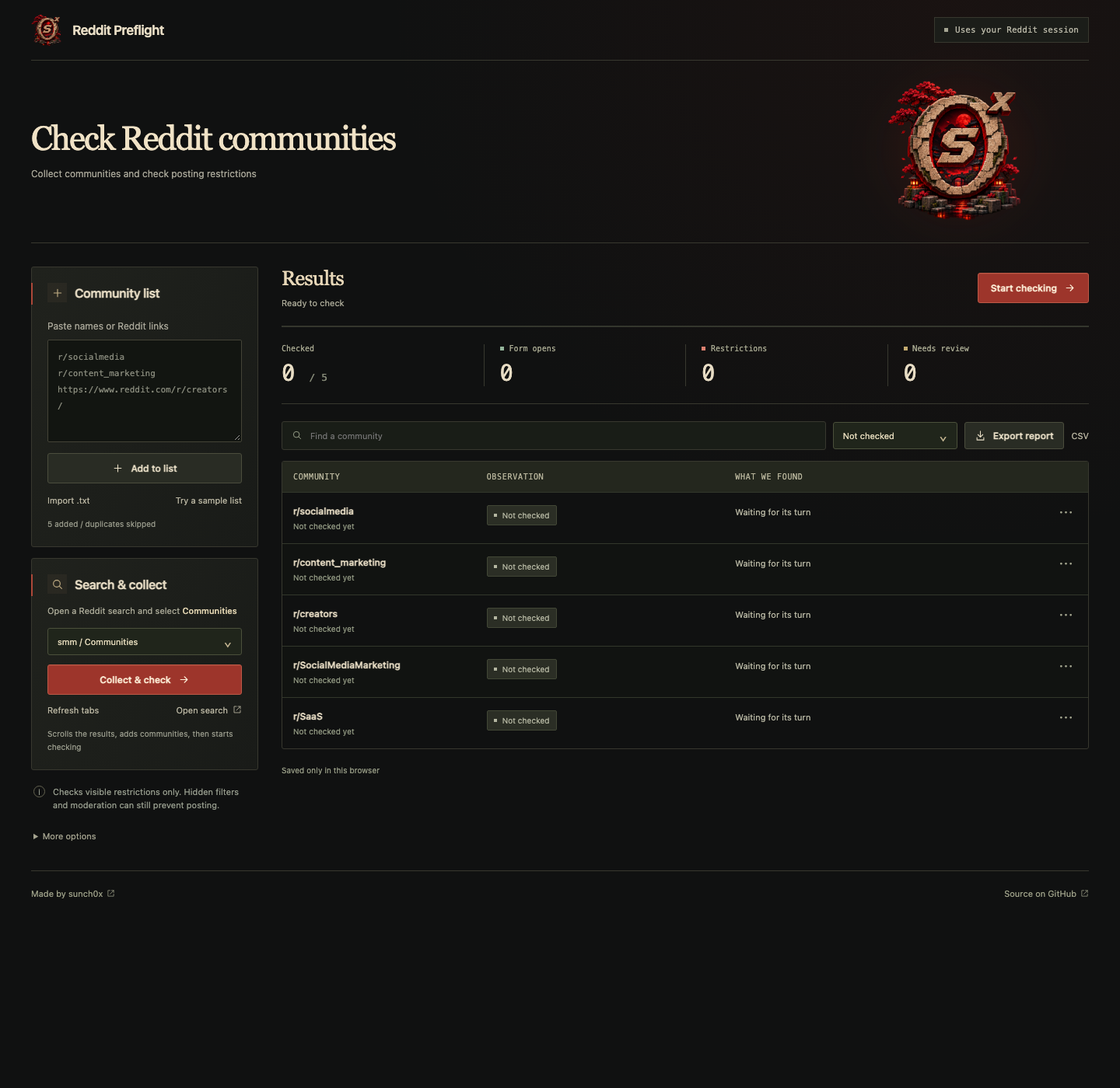
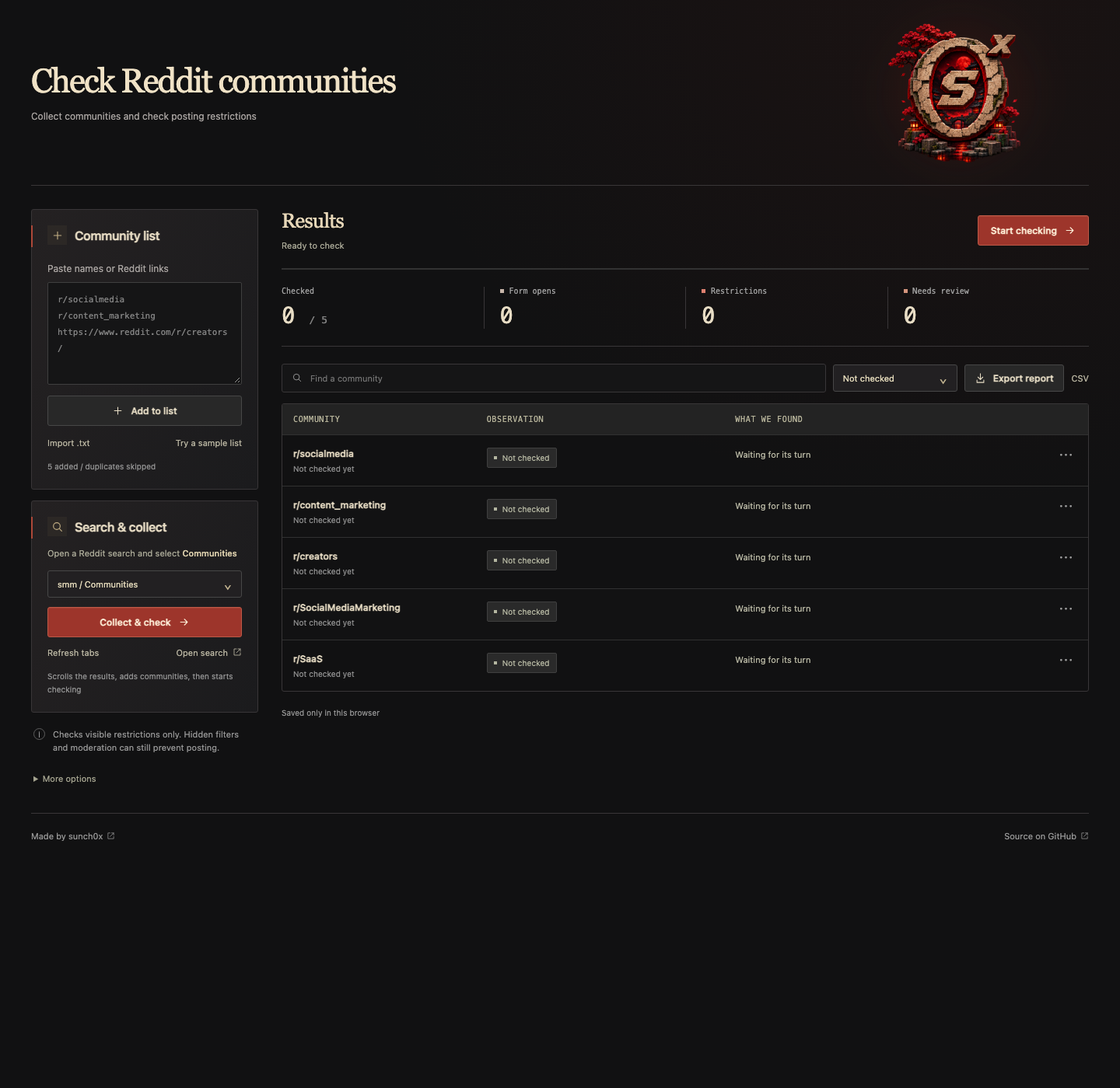
Remove topbar and replace olive accents with charcoal and crimson

diff --git a/extension/style.css b/extension/style.css
@@ -1,13 +1,15 @@
-:root{font-family:-apple-system,BlinkMacSystemFont,"Segoe UI",sans-serif;color:#e7dcc4;background:#101111;color-scheme:dark;--surface:#1a1b19;--muted:#a7a597;--line:#38382f;--accent:#d6c096;--red:#b34337;--ease:cubic-bezier(.16,1,.3,1)}
+:root{font-family:-apple-system,BlinkMacSystemFont,"Segoe UI",sans-serif;color:#e7dcc4;background:#101111;color-scheme:dark;--surface:#1a1a1a;--muted:#a7a597;--line:#353535;--accent:#d6c096;--red:#b34337;--ease:cubic-bezier(.16,1,.3,1)}
 *{box-sizing:border-box}body{margin:0;background:radial-gradient(ellipse at 85% 0,#6c20151b,transparent 42%)}button,input,select,textarea{font:inherit}button,a,input,select,summary{touch-action:manipulation}button{cursor:pointer}button:disabled{opacity:.4;cursor:default}[hidden]{display:none!important}a{color:inherit;text-decoration:none}a:hover{color:#f5d2a3}button:focus-visible,a:focus-visible,summary:focus-visible,input:focus-visible,textarea:focus-visible,select:focus-visible{outline:2px solid #d6c096;outline-offset:4px}.app{max-width:1500px;margin:auto;padding:0 40px}svg{width:18px;height:18px;fill:none;stroke:currentColor;stroke-width:1.7;stroke-linecap:round;stroke-linejoin:round;flex-shrink:0}.svg-defs{position:absolute;width:0;height:0;overflow:hidden}
-.topbar{height:78px;display:flex;align-items:center;justify-content:space-between;gap:20px;border-bottom:1px solid var(--line)}.wordmark{display:flex;align-items:center;gap:11px;font-size:17px;font-weight:600;letter-spacing:-.025em}.brand-mark{width:42px;height:50px}.brand-mark img{width:100%;height:100%;object-fit:contain}.account-pill{display:flex;align-items:center;gap:9px;padding:9px 12px;border:1px solid var(--line);background:#1b1d19;color:#b8b6a6;font:11px ui-monospace,SFMono-Regular,monospace;max-width:350px;overflow:hidden}.dot{display:inline-block;width:5px;height:5px;background:#a5a593;flex-shrink:0}.good{background:#94b59b}.bad{background:#dd8070}.neutral{background:#c4ab70}
+.topbar{height:78px;display:flex;align-items:center;justify-content:space-between;gap:20px;border-bottom:1px solid var(--line)}.wordmark{display:flex;align-items:center;gap:11px;font-size:17px;font-weight:600;letter-spacing:-.025em}.brand-mark{width:42px;height:50px}.brand-mark img{width:100%;height:100%;object-fit:contain}.account-pill{display:flex;align-items:center;gap:9px;padding:9px 12px;border:1px solid var(--line);background:#1b1b1b;color:#b8b6a6;font:11px ui-monospace,SFMono-Regular,monospace;max-width:350px;overflow:hidden}.dot{display:inline-block;width:5px;height:5px;background:#9f9f9f;flex-shrink:0}.good{background:#a1a1a1}.bad{background:#dd8070}.neutral{background:#c4ab70}
 .intro{display:grid;grid-template-columns:minmax(0,1fr) 290px;align-items:center;gap:30px;padding:22px 22px 22px 0;min-height:210px;border-bottom:1px solid var(--line);margin-bottom:30px}.intro-copy{animation:arrive .5s var(--ease) both}.intro h1{font:500 clamp(36px,3.5vw,54px)/1.04 Georgia,"Times New Roman",serif;letter-spacing:-.045em;margin:0;color:#f0e2c6}.intro h1 span{color:#c8b58c}.intro p{font-size:12px;line-height:1.8;color:var(--muted);margin:17px 0 0}.intro-art{position:relative;display:flex;flex-direction:column;align-items:center;justify-content:center;height:190px}.intro-art:before{content:"";position:absolute;width:180px;height:180px;border-radius:50%;background:#b22f1718;filter:blur(28px);pointer-events:none}.intro-art img{position:relative;width:190px;height:190px;object-fit:contain;animation:emblem-in .65s var(--ease) both}
-h2{font-size:16px;font-weight:550;letter-spacing:-.015em;margin:0}h3{font-size:16px;font-weight:500}.workspace{display:grid;grid-template-columns:292px minmax(0,1fr);gap:30px;align-items:start;padding-bottom:26px}.panel{border:1px solid var(--line);background:linear-gradient(115deg,#20221d,#191b18);padding:20px;border-radius:3px;position:relative}.panel:before{content:"";position:absolute;left:-1px;top:20px;height:28px;width:2px;background:#ad4839}.panel-heading{display:flex;align-items:center;gap:10px;margin-bottom:20px}.icon-tile{width:25px;height:25px;display:grid;place-items:center;color:#c3af85;background:#b8a17710}.icon-tile svg{width:16px;height:16px}label{color:var(--muted);font-size:12px}textarea{display:block;width:100%;resize:vertical;min-height:132px;max-height:350px;margin:10px 0 14px;padding:12px;border:1px solid #444337;border-radius:2px;background:#121511;font:11px/1.9 ui-monospace,SFMono-Regular,monospace;color:#e7dcc4}textarea::placeholder{color:#858779}.button{display:inline-flex;justify-content:center;align-items:center;gap:9px;white-space:nowrap;background:#292c24;border:1px solid #4b4d3d;border-radius:3px;padding:11px 16px;color:#e8dec6;font-size:12px;font-weight:550;transition:background .18s,transform .2s var(--ease),border-color .18s;position:relative}.button:not(:disabled):hover{background:#36392e;border-color:#9b8c65;transform:translateY(-1px)}.button:not(:disabled):active{transform:scale(.985)}.button.primary{background:#9d352b;border-color:#bd5947;color:#fff0d9;box-shadow:inset 0 1px #eea07a20}.button.primary:not(:disabled):hover{background:#b14335;border-color:#d07759}.button svg{width:15px;height:15px;transition:transform .2s var(--ease)}.button.primary:hover:not(:disabled) svg{transform:translateX(2px)}.full{width:100%}.compact{padding:9px 12px}.text-button{font-size:11px;color:#bab6a2;border:0;background:transparent;padding:7px 0;display:inline-flex;align-items:center;gap:6px;transition:color .18s,transform .18s;cursor:pointer;text-align:left}.text-button:hover{color:#f1d6a5}.text-button:active{transform:scale(.985)}.text-button svg{width:12px;height:12px}.file-button input{display:none}.import-row{display:flex;justify-content:space-between;gap:8px;margin-top:8px}.micro{font-size:10px;color:#969889;line-height:1.7;margin:9px 0 0;min-height:17px;overflow-wrap:anywhere}.collect-panel{margin-top:14px}.collect-panel .panel-heading{margin-bottom:13px}.collect-panel>p:not(.micro){color:#aaa997;font-size:11px;line-height:1.7;margin:0 0 12px}.collect-panel strong{color:#ded1ae;font-weight:500}.collect-panel .import-row{margin-top:6px}.quiet-note{display:flex;gap:10px;padding:19px 3px 12px;color:#959b8c;font-size:11px;line-height:1.6}.quiet-note strong{color:#bcb79d;font-size:11px;font-weight:500}.quiet-note p{margin:6px 0 0}.note-icon{width:15px;height:15px;flex-shrink:0;text-align:center;line-height:14px;border:1px solid #656451;border-radius:50%;font-size:10px;margin-top:1px}.list-settings{padding:4px 3px;font-size:11px;color:#a4a38f}.list-settings summary{cursor:pointer;padding:8px 0}.list-settings .text-button,.list-settings .toggle{display:flex;width:100%;margin-top:6px}.toggle{align-items:center;gap:8px;padding:8px 0}.toggle input{accent-color:#b34337}.danger{color:#e48f7c}
-.results{min-width:0}.scan-bar{display:flex;justify-content:space-between;gap:20px;align-items:center;min-height:53px}.scan-bar h2{font:26px Georgia,"Times New Roman",serif;letter-spacing:-.025em;color:#e7d7b8}.scan-bar p{font-size:11px;color:#aaa997;margin:8px 0 0;line-height:1.6;max-width:520px}.run-actions{display:flex;gap:8px;flex-shrink:0}.progress-track{height:2px;background:#34362d;margin:20px 0 0;overflow:hidden}.progress-track>div{height:100%;width:0;background:#bd5947;transition:width .4s var(--ease)}.summary{display:grid;grid-template-columns:repeat(4,1fr);gap:0;margin:0 0 22px;border-bottom:1px solid var(--line);padding:22px 0}.metric{padding-left:20px;border-left:1px solid var(--line)}.metric:first-child{padding-left:0;border-left:0}.metric span{display:flex;gap:7px;align-items:center;font:10px ui-monospace,SFMono-Regular,monospace;color:#a8a991}.metric strong{font:29px ui-monospace,SFMono-Regular,monospace;display:block;margin-top:9px;font-variant-numeric:tabular-nums;letter-spacing:-.04em}.metric small{font-size:13px;color:#868a78;font-weight:400;letter-spacing:0;margin-left:3px}.table-tools{display:flex;align-items:center;gap:9px;margin-bottom:14px}.search{display:flex;align-items:center;gap:8px;flex:1;min-width:120px;background:#191d17;border:1px solid var(--line);border-radius:3px;padding:10px 12px}.search svg{width:14px;height:14px;color:#969d87}.search input{min-width:0;width:100%;border:0;background:transparent;outline:none;font-size:11px;color:#e7dcc4}.search:focus-within{border-color:#b6a06d}.export-actions{display:flex;gap:10px;align-items:center}.empty{min-height:290px;display:flex;flex-direction:column;align-items:center;justify-content:center;text-align:center;border:1px dashed #444739;padding:30px}.empty-mark{display:grid;place-items:center;width:44px;height:44px;background:#24291e;color:#c4ae7e;border:1px solid #4b523c}.empty-mark svg{width:25px;height:25px}.empty h3{margin:18px 0 8px;color:#dfd1ae}.empty p{font-size:12px;line-height:1.8;color:#a4a591;margin:0}.table-wrap{border:1px solid var(--line);border-radius:3px;overflow:auto;max-height:540px}table{width:100%;border-collapse:collapse;font-size:12px}th{text-align:left;font:10px ui-monospace,SFMono-Regular,monospace;text-transform:uppercase;letter-spacing:.07em;color:#b6b39a;background:#24271e;padding:14px;position:sticky;top:0;z-index:2}td{border-top:1px solid #32372b;padding:16px 14px;vertical-align:top}td:first-child{width:24%;min-width:150px}td:nth-child(2){min-width:140px}td:nth-child(3){max-width:330px;min-width:180px;color:#b9b8a4;font-size:11px;line-height:1.7}td:last-child{width:40px}td small{display:block;color:#909781;margin-top:6px;font-size:10px}td a{font-weight:550}tr{transition:background .18s}tbody tr:nth-child(even){background:#1d211824}tbody tr:hover{background:#252b1d}.badge{display:inline-flex;align-items:center;gap:7px;border-radius:2px;background:#2b2e25;color:#b4b6a1;padding:6px 8px;font-size:10px;white-space:nowrap;border:1px solid #424736}.badge:before{content:"";width:4px;height:4px;background:currentColor}.form_open{background:#25392b;color:#b6d5af;border-color:#445e41}.blocked,.restricted,.unavailable,.manual_bad{background:#482922;color:#edb09a;border-color:#774438}.unknown,.login,.challenge,.rate_limit,.session_changed{background:#3c3522;color:#dbc28b;border-color:#635538}.user_confirmed{background:#293d31;color:#b1d4b8;border-color:#465e49}.checking{background:#423924;color:#e6c693;border-color:#746040}.checking:before{animation:breathe 1.3s ease-in-out infinite}.row-action{position:relative}.row-action>button{background:none;border:0;color:#a2a48e;font-size:19px;line-height:1;padding:0 5px}.row-action>button:hover{color:#e7dcc4}.row-menu{position:absolute;right:0;top:25px;width:165px;border:1px solid #585b43;border-radius:3px;background:#252b1f;padding:5px;box-shadow:0 15px 35px #0008;z-index:3}.row-menu button{display:block;background:transparent;border:0;text-align:left;color:#ddd8be;font:inherit;padding:10px;border-radius:2px;width:100%}.row-menu button:hover{background:#3c4430;color:#fff1cd}.scan-details{display:flex;align-items:center;justify-content:space-between;gap:10px;min-height:38px;margin-top:8px;color:#969b85;font-size:10px}.scan-details>div{display:flex;gap:14px}.no-matches{text-align:center;padding:20px;color:#a9aa94;font-size:12px}
-.select-trigger{display:flex;align-items:center;justify-content:space-between;gap:16px;min-width:160px;max-width:240px;padding:10px 12px;border:1px solid #4b503b;border-radius:3px;background:#20251b;color:#e2d8b9;font-size:11px;text-align:left;transition:background .18s,border-color .18s,transform .18s var(--ease)}.select-trigger>span:first-child{overflow:hidden;text-overflow:ellipsis;white-space:nowrap}.select-trigger:hover:not(:disabled){background:#2d3523;border-color:#9d946b}.select-trigger:active:not(:disabled){transform:scale(.99)}.select-trigger[aria-expanded="true"]{border-color:#c3ad7a}.select-chevron{color:#bfb18e;font-size:17px;line-height:12px}.collect-panel .select-trigger{width:100%;max-width:none;min-width:0;margin-bottom:12px}.select-options{position:fixed;z-index:1000;max-height:300px;overflow-y:auto;overscroll-behavior:contain;padding:5px;border:1px solid #686748;border-radius:3px;background:#22291c;box-shadow:0 12px 32px #0008;animation:arrive .14s var(--ease)}.select-options button{display:flex;align-items:center;justify-content:space-between;gap:18px;width:100%;border:0;border-radius:2px;padding:10px 11px;text-align:left;background:transparent;color:#dddcc4;font-size:12px;line-height:1.35;transition:background .12s,color .12s}.select-options button:hover,.select-options button:focus-visible{background:#38432b;color:#f3e0b6;outline:none}.select-options button[aria-selected="true"]{background:#4a3826;color:#f4d4a0;box-shadow:inset 2px 0 #bc6750}.select-check{color:#d6bb84}.table-tools .select-trigger{flex-shrink:0}
-footer{border-top:1px solid var(--line);padding:22px 0 26px;display:flex;justify-content:space-between;gap:20px;color:#9c9f87;font-size:11px;align-items:center}footer a{display:inline-flex;align-items:center;gap:5px}footer svg{width:11px;height:11px}dialog{background:#20241a;color:#e7dcc4;border:1px solid #626044;border-radius:4px;padding:25px;max-width:440px;width:90%;box-shadow:0 25px 90px #0008}dialog::backdrop{background:#000a;backdrop-filter:blur(4px)}dialog[open]{animation:arrive .2s var(--ease)}dialog p{font-size:13px;color:#bbb69d;line-height:1.7}.dialog-actions{display:flex;justify-content:flex-end;gap:9px;margin-top:24px}.sr-only{position:absolute;width:1px;height:1px;overflow:hidden;clip:rect(0,0,0,0)}::-webkit-scrollbar{width:5px;height:5px}::-webkit-scrollbar-thumb{background:#5a6047}::-webkit-scrollbar-track{background:transparent}@keyframes arrive{from{opacity:0;transform:translateY(5px)}to{opacity:1;transform:translateY(0)}}@keyframes emblem-in{from{opacity:0;transform:scale(.98)}to{opacity:1;transform:scale(1)}}@keyframes breathe{50%{opacity:.3}}
+h2{font-size:16px;font-weight:550;letter-spacing:-.015em;margin:0}h3{font-size:16px;font-weight:500}.workspace{display:grid;grid-template-columns:292px minmax(0,1fr);gap:30px;align-items:start;padding-bottom:26px}.panel{border:1px solid var(--line);background:linear-gradient(115deg,#202020,#191919);padding:20px;border-radius:3px;position:relative}.panel:before{content:"";position:absolute;left:-1px;top:20px;height:28px;width:2px;background:#ad4839}.panel-heading{display:flex;align-items:center;gap:10px;margin-bottom:20px}.icon-tile{width:25px;height:25px;display:grid;place-items:center;color:#c3af85;background:#b8a17710}.icon-tile svg{width:16px;height:16px}label{color:var(--muted);font-size:12px}textarea{display:block;width:100%;resize:vertical;min-height:132px;max-height:350px;margin:10px 0 14px;padding:12px;border:1px solid #3f3f3f;border-radius:2px;background:#131313;font:11px/1.9 ui-monospace,SFMono-Regular,monospace;color:#e7dcc4}textarea::placeholder{color:#828282}.button{display:inline-flex;justify-content:center;align-items:center;gap:9px;white-space:nowrap;background:#282828;border:1px solid #474747;border-radius:3px;padding:11px 16px;color:#e8dec6;font-size:12px;font-weight:550;transition:background .18s,transform .2s var(--ease),border-color .18s;position:relative}.button:not(:disabled):hover{background:#343434;border-color:#9b8c65;transform:translateY(-1px)}.button:not(:disabled):active{transform:scale(.985)}.button.primary{background:#9d352b;border-color:#bd5947;color:#fff0d9;box-shadow:inset 0 1px #eea07a20}.button.primary:not(:disabled):hover{background:#b14335;border-color:#d07759}.button svg{width:15px;height:15px;transition:transform .2s var(--ease)}.button.primary:hover:not(:disabled) svg{transform:translateX(2px)}.full{width:100%}.compact{padding:9px 12px}.text-button{font-size:11px;color:#bab6a2;border:0;background:transparent;padding:7px 0;display:inline-flex;align-items:center;gap:6px;transition:color .18s,transform .18s;cursor:pointer;text-align:left}.text-button:hover{color:#f1d6a5}.text-button:active{transform:scale(.985)}.text-button svg{width:12px;height:12px}.file-button input{display:none}.import-row{display:flex;justify-content:space-between;gap:8px;margin-top:8px}.micro{font-size:10px;color:#929292;line-height:1.7;margin:9px 0 0;min-height:17px;overflow-wrap:anywhere}.collect-panel{margin-top:14px}.collect-panel .panel-heading{margin-bottom:13px}.collect-panel>p:not(.micro){color:#aaa997;font-size:11px;line-height:1.7;margin:0 0 12px}.collect-panel strong{color:#ded1ae;font-weight:500}.collect-panel .import-row{margin-top:6px}.quiet-note{display:flex;gap:10px;padding:19px 3px 12px;color:#949494;font-size:11px;line-height:1.6}.quiet-note strong{color:#bcb79d;font-size:11px;font-weight:500}.quiet-note p{margin:6px 0 0}.note-icon{width:15px;height:15px;flex-shrink:0;text-align:center;line-height:14px;border:1px solid #5e5e5e;border-radius:50%;font-size:10px;margin-top:1px}.list-settings{padding:4px 3px;font-size:11px;color:#a4a38f}.list-settings summary{cursor:pointer;padding:8px 0}.list-settings .text-button,.list-settings .toggle{display:flex;width:100%;margin-top:6px}.toggle{align-items:center;gap:8px;padding:8px 0}.toggle input{accent-color:#b34337}.danger{color:#e48f7c}
+.results{min-width:0}.scan-bar{display:flex;justify-content:space-between;gap:20px;align-items:center;min-height:53px}.scan-bar h2{font:26px Georgia,"Times New Roman",serif;letter-spacing:-.025em;color:#e7d7b8}.scan-bar p{font-size:11px;color:#aaa997;margin:8px 0 0;line-height:1.6;max-width:520px}.run-actions{display:flex;gap:8px;flex-shrink:0}.progress-track{height:2px;background:#323232;margin:20px 0 0;overflow:hidden}.progress-track>div{height:100%;width:0;background:#bd5947;transition:width .4s var(--ease)}.summary{display:grid;grid-template-columns:repeat(4,1fr);gap:0;margin:0 0 22px;border-bottom:1px solid var(--line);padding:22px 0}.metric{padding-left:20px;border-left:1px solid var(--line)}.metric:first-child{padding-left:0;border-left:0}.metric span{display:flex;gap:7px;align-items:center;font:10px ui-monospace,SFMono-Regular,monospace;color:#a1a1a1}.metric strong{font:29px ui-monospace,SFMono-Regular,monospace;display:block;margin-top:9px;font-variant-numeric:tabular-nums;letter-spacing:-.04em}.metric small{font-size:13px;color:#838383;font-weight:400;letter-spacing:0;margin-left:3px}.table-tools{display:flex;align-items:center;gap:9px;margin-bottom:14px}.search{display:flex;align-items:center;gap:8px;flex:1;min-width:120px;background:#1a1a1a;border:1px solid var(--line);border-radius:3px;padding:10px 12px}.search svg{width:14px;height:14px;color:#939393}.search input{min-width:0;width:100%;border:0;background:transparent;outline:none;font-size:11px;color:#e7dcc4}.search:focus-within{border-color:#b6a06d}.export-actions{display:flex;gap:10px;align-items:center}.empty{min-height:290px;display:flex;flex-direction:column;align-items:center;justify-content:center;text-align:center;border:1px dashed #414141;padding:30px}.empty-mark{display:grid;place-items:center;width:44px;height:44px;background:#242424;color:#c4ae7e;border:1px solid #484848}.empty-mark svg{width:25px;height:25px}.empty h3{margin:18px 0 8px;color:#dfd1ae}.empty p{font-size:12px;line-height:1.8;color:#9e9e9e;margin:0}.table-wrap{border:1px solid var(--line);border-radius:3px;overflow:auto;max-height:540px}table{width:100%;border-collapse:collapse;font-size:12px}th{text-align:left;font:10px ui-monospace,SFMono-Regular,monospace;text-transform:uppercase;letter-spacing:.07em;color:#b6b39a;background:#232323;padding:14px;position:sticky;top:0;z-index:2}td{border-top:1px solid #313131;padding:16px 14px;vertical-align:top}td:first-child{width:24%;min-width:150px}td:nth-child(2){min-width:140px}td:nth-child(3){max-width:330px;min-width:180px;color:#b9b8a4;font-size:11px;line-height:1.7}td:last-child{width:40px}td small{display:block;color:#8d8d8d;margin-top:6px;font-size:10px}td a{font-weight:550}tr{transition:background .18s}tbody tr:nth-child(even){background:#1d1d1d24}tbody tr:hover{background:#242424}.badge{display:inline-flex;align-items:center;gap:7px;border-radius:2px;background:#2a2a2a;color:#b4b6a1;padding:6px 8px;font-size:10px;white-space:nowrap;border:1px solid #404040}.badge:before{content:"";width:4px;height:4px;background:currentColor}.form_open{background:#2e2e2e;color:#bebebe;border-color:#4c4c4c}.blocked,.restricted,.unavailable,.manual_bad{background:#482922;color:#edb09a;border-color:#774438}.unknown,.login,.challenge,.rate_limit,.session_changed{background:#313131;color:#dbc28b;border-color:#635538}.user_confirmed{background:#323232;color:#bfbfbf;border-color:#4f4f4f}.checking{background:#423924;color:#e6c693;border-color:#746040}.checking:before{animation:breathe 1.3s ease-in-out infinite}.row-action{position:relative}.row-action>button{background:none;border:0;color:#9c9c9c;font-size:19px;line-height:1;padding:0 5px}.row-action>button:hover{color:#e7dcc4}.row-menu{position:absolute;right:0;top:25px;width:165px;border:1px solid #525252;border-radius:3px;background:#252525;padding:5px;box-shadow:0 15px 35px #0008;z-index:3}.row-menu button{display:block;background:transparent;border:0;text-align:left;color:#ddd8be;font:inherit;padding:10px;border-radius:2px;width:100%}.row-menu button:hover{background:#3b3b3b;color:#fff1cd}.scan-details{display:flex;align-items:center;justify-content:space-between;gap:10px;min-height:38px;margin-top:8px;color:#929292;font-size:10px}.scan-details>div{display:flex;gap:14px}.no-matches{text-align:center;padding:20px;color:#a2a2a2;font-size:12px}
+.select-trigger{display:flex;align-items:center;justify-content:space-between;gap:16px;min-width:160px;max-width:240px;padding:10px 12px;border:1px solid #474747;border-radius:3px;background:#202020;color:#e2d8b9;font-size:11px;text-align:left;transition:background .18s,border-color .18s,transform .18s var(--ease)}.select-trigger>span:first-child{overflow:hidden;text-overflow:ellipsis;white-space:nowrap}.select-trigger:hover:not(:disabled){background:#2c2c2c;border-color:#9d946b}.select-trigger:active:not(:disabled){transform:scale(.99)}.select-trigger[aria-expanded="true"]{border-color:#c3ad7a}.select-chevron{color:#bfb18e;font-size:17px;line-height:12px}.collect-panel .select-trigger{width:100%;max-width:none;min-width:0;margin-bottom:12px}.select-options{position:fixed;z-index:1000;max-height:300px;overflow-y:auto;overscroll-behavior:contain;padding:5px;border:1px solid #5d5d5d;border-radius:3px;background:#222222;box-shadow:0 12px 32px #0008;animation:arrive .14s var(--ease)}.select-options button{display:flex;align-items:center;justify-content:space-between;gap:18px;width:100%;border:0;border-radius:2px;padding:10px 11px;text-align:left;background:transparent;color:#dddcc4;font-size:12px;line-height:1.35;transition:background .12s,color .12s}.select-options button:hover,.select-options button:focus-visible{background:#373737;color:#f3e0b6;outline:none}.select-options button[aria-selected="true"]{background:#4a3826;color:#f4d4a0;box-shadow:inset 2px 0 #bc6750}.select-check{color:#d6bb84}.table-tools .select-trigger{flex-shrink:0}
+footer{border-top:1px solid var(--line);padding:22px 0 26px;display:flex;justify-content:space-between;gap:20px;color:#969696;font-size:11px;align-items:center}footer a{display:inline-flex;align-items:center;gap:5px}footer svg{width:11px;height:11px}dialog{background:#1f1f1f;color:#e7dcc4;border:1px solid #575757;border-radius:4px;padding:25px;max-width:440px;width:90%;box-shadow:0 25px 90px #0008}dialog::backdrop{background:#000a;backdrop-filter:blur(4px)}dialog[open]{animation:arrive .2s var(--ease)}dialog p{font-size:13px;color:#bbb69d;line-height:1.7}.dialog-actions{display:flex;justify-content:flex-end;gap:9px;margin-top:24px}.sr-only{position:absolute;width:1px;height:1px;overflow:hidden;clip:rect(0,0,0,0)}::-webkit-scrollbar{width:5px;height:5px}::-webkit-scrollbar-thumb{background:#565656}::-webkit-scrollbar-track{background:transparent}@keyframes arrive{from{opacity:0;transform:translateY(5px)}to{opacity:1;transform:translateY(0)}}@keyframes emblem-in{from{opacity:0;transform:scale(.98)}to{opacity:1;transform:scale(1)}}@keyframes breathe{50%{opacity:.3}}
 @media(max-width:1100px){.app{padding:0 24px}.workspace{grid-template-columns:256px minmax(0,1fr);gap:22px}.intro{grid-template-columns:minmax(0,1fr) 230px}.table-tools{flex-wrap:wrap}.export-actions{margin-left:auto}.scan-bar{align-items:flex-start}.run-actions .button{padding:10px 12px}.metric{padding-left:12px}.account-pill{font-size:10px}}
 @media(max-width:760px){.app{padding:0 18px}.topbar{height:70px}.wordmark{font-size:14px;gap:8px}.brand-mark{width:32px;height:40px}.account-pill{max-width:150px;font-size:9px}.intro{grid-template-columns:minmax(0,1fr) 120px;gap:10px;padding:24px 0;min-height:220px;margin-bottom:22px}.intro-art{height:155px}.intro-art:before{width:100px;height:100px}.intro-art img{width:120px;height:140px}.intro h1{font-size:33px}.intro p{font-size:11px;line-height:1.65}.intro p br{display:none}.workspace{grid-template-columns:1fr}.quiet-note{padding:15px 3px}.list-settings{padding:0 3px}.summary{padding:18px 0}.metric{padding-left:9px}.metric span{font-size:9px;gap:4px}.metric strong{font-size:24px}.scan-bar{gap:12px}.scan-bar h2{font-size:24px}.table-tools{gap:8px}.table-tools .select-trigger{min-width:145px;max-width:180px}.search{flex-basis:45%}footer{flex-wrap:wrap;justify-content:flex-start;gap:14px 22px}.scan-details{align-items:flex-start}.scan-details>div{gap:7px;flex-wrap:wrap}.scan-details>span{max-width:155px}.table-wrap{max-height:450px}}
 @media(prefers-reduced-motion:reduce){*,*::before,*::after{animation:none!important;transition:none!important;scroll-behavior:auto!important}}
 
 .intro h1{font-size:clamp(30px,3vw,44px);max-width:640px}.intro p{margin-top:12px}.quiet-note p{margin:0}@media(max-width:760px){.intro{min-height:175px}.intro h1{font-size:30px}.intro-art{height:130px}.intro-art img{width:115px;height:125px}}
+
+:root{background:#111112;--surface:#1b1b1d;--muted:#a8a3a0;--line:#393638;--accent:#d48577}.panel{background:linear-gradient(115deg,#242122,#1b1b1d)}.search,textarea{background:#151516}.select-trigger,.select-options,.row-menu,dialog{background:#222022}.select-options button:hover,.select-options button:focus-visible,.row-menu button:hover{background:#3c292b}.select-options button[aria-selected="true"]{background:#492b2d;color:#f1c4b4;box-shadow:inset 2px 0 #c35f50}.select-check{color:#df9281}.checking{background:#3d2b2b;color:#e5a99b;border-color:#79524d}.form_open,.user_confirmed{background:#302b2a;color:#ddd1c6;border-color:#554b46}.good{background:#c8b6aa}.neutral{background:#d4957d}.intro{padding-top:26px}.button:not(:disabled):hover{border-color:#a56b62}.progress-track>div{background:#c35f50}

diff --git a/extension/core.js b/extension/core.js
@@ -49,7 +49,7 @@ const fields=['name','status','reason','evidence','checkedAt','account','note','
 export function exportCSV(rows){const cell=v=>'"'+String(v??'').replace(/^[\s]*[=+@-]/,m=>"'"+m).replaceAll('"','""')+'"';return '\uFEFF'+[fields.join(','),...rows.map(r=>fields.map(k=>cell(r[k])).join(','))].join('\r\n');}
 export function exportHTML(rows){
  const e=escapeHTML;
- return '<!doctype html><html lang="en"><meta charset="utf-8"><meta name="viewport" content="width=device-width,initial-scale=1"><title>Reddit Preflight report</title><style>body{font:14px/1.6 system-ui;margin:32px;background:#101111;color:#e7dcc4}h1{letter-spacing:-.04em}p{color:#aaa997}table{width:100%;border-collapse:collapse}td,th{text-align:left;padding:14px;border-bottom:1px solid #38382f;vertical-align:top;max-width:480px;overflow-wrap:anywhere}th{background:#24271e}a{color:#d6c096}.scroll{overflow:auto}footer{margin-top:30px}</style><h1>Reddit Preflight</h1><p>'+e(new Date().toISOString())+' / '+rows.length+' communities</p><p>An open form is not posting permission. This report only records visible form states and restrictions. Hidden filters, submission-time checks and moderation were not tested. Account identity is shown only when the page exposed an explicit identifier.</p><div class="scroll"><table><thead><tr><th>Community</th><th>Observation</th><th>Reason</th><th>Evidence</th><th>Checked at</th><th>Detected account</th><th>Note</th></tr></thead><tbody>'+rows.map(r=>'<tr><td><a href="https://www.reddit.com/r/'+e(normalizeCommunity(r.name)||'unknown')+'/">r/'+e(r.name)+'</a></td><td>'+e(LABELS[r.status]||r.status)+'</td><td>'+e(REASONS[r.reason]||r.reason)+'</td><td>'+e(r.evidence)+'</td><td>'+e(r.checkedAt)+'</td><td>'+e(r.account||'Not identified')+'</td><td>'+e(r.note)+'</td></tr>').join('')+'</tbody></table></div><footer>Made by <a href="https://linkdeck.co/sunch0x">sunch0x</a></footer></html>';
+ return '<!doctype html><html lang="en"><meta charset="utf-8"><meta name="viewport" content="width=device-width,initial-scale=1"><title>Reddit Preflight report</title><style>body{font:14px/1.6 system-ui;margin:32px;background:#111112;color:#e7dcc4}h1{letter-spacing:-.04em}p{color:#aaa997}table{width:100%;border-collapse:collapse}td,th{text-align:left;padding:14px;border-bottom:1px solid #393638;vertical-align:top;max-width:480px;overflow-wrap:anywhere}th{background:#242122}a{color:#df9281}.scroll{overflow:auto}footer{margin-top:30px}</style><h1>Reddit Preflight</h1><p>'+e(new Date().toISOString())+' / '+rows.length+' communities</p><p>An open form is not posting permission. This report only records visible form states and restrictions. Hidden filters, submission-time checks and moderation were not tested. Account identity is shown only when the page exposed an explicit identifier.</p><div class="scroll"><table><thead><tr><th>Community</th><th>Observation</th><th>Reason</th><th>Evidence</th><th>Checked at</th><th>Detected account</th><th>Note</th></tr></thead><tbody>'+rows.map(r=>'<tr><td><a href="https://www.reddit.com/r/'+e(normalizeCommunity(r.name)||'unknown')+'/">r/'+e(r.name)+'</a></td><td>'+e(LABELS[r.status]||r.status)+'</td><td>'+e(REASONS[r.reason]||r.reason)+'</td><td>'+e(r.evidence)+'</td><td>'+e(r.checkedAt)+'</td><td>'+e(r.account||'Not identified')+'</td><td>'+e(r.note)+'</td></tr>').join('')+'</tbody></table></div><footer>Made by <a href="https://linkdeck.co/sunch0x">sunch0x</a></footer></html>';
 }
 export function validateBackup(data){
  if(data?.schema!==2||!Array.isArray(data.rows)||data.rows.length>1000)throw Error('Not a Reddit Preflight backup');

diff --git a/extension/dashboard.html b/extension/dashboard.html
@@ -1,6 +1,6 @@
 <!doctype html><html lang="en"><head><meta charset="utf-8"><meta name="viewport" content="width=device-width,initial-scale=1"><title>Reddit Preflight</title><link rel="stylesheet" href="style.css"></head><body>
 <svg class="svg-defs" aria-hidden="true"><defs><symbol id="check" viewBox="0 0 24 24"><path d="m5 12 4 4L19 6"/></symbol><symbol id="arrow" viewBox="0 0 24 24"><path d="M5 12h14m-6-6 6 6-6 6"/></symbol><symbol id="plus" viewBox="0 0 24 24"><path d="M12 5v14M5 12h14"/></symbol><symbol id="download" viewBox="0 0 24 24"><path d="M12 3v12m-5-5 5 5 5-5M5 16v5h14v-5"/></symbol><symbol id="search-icon" viewBox="0 0 24 24"><circle cx="10.5" cy="10.5" r="6.5"/><path d="m16 16 4 4"/></symbol><symbol id="pause-icon" viewBox="0 0 24 24"><path d="M8 5v14M16 5v14"/></symbol><symbol id="external" viewBox="0 0 24 24"><path d="M14 4h6v6m0-6L10 14M10 4H4v16h16v-6"/></symbol><symbol id="trash" viewBox="0 0 24 24"><path d="M3 6h18M9 6V3h6v3M6 6l1 15h10l1-15M10 10v7m4-7v7"/></symbol></defs></svg>
-<div class="app"><header class="topbar"><a class="wordmark" href="dashboard.html"><span class="brand-mark"><img src="icons/emblem.png" alt="s in zero, superscript x"></span>Reddit Preflight</a><div class="account-pill" id="account-pill"><span class="dot"></span><span id="account-label">Uses your Reddit session</span></div></header>
+<div class="app"><div id="account-pill" hidden><span id="account-label"></span></div>
 <section class="intro"><div class="intro-copy"><h1>Check Reddit communities</h1><p>Collect communities and check posting restrictions</p></div><div class="intro-art"><img src="icons/emblem.png" alt="Stone s-in-zero emblem with a crimson moon" width="300" height="300"></div></section>
 <div class="workspace"><aside><section class="panel input-panel"><div class="panel-heading"><span class="icon-tile"><svg><use href="#plus"/></svg></span><h2>Community list</h2></div><label for="community-input">Paste names or Reddit links</label><textarea id="community-input" spellcheck="false" placeholder="r/socialmedia&#10;r/content_marketing&#10;https://www.reddit.com/r/creators/"></textarea><button id="add" class="button full"><svg><use href="#plus"/></svg>Add to list</button><div class="import-row"><label class="text-button file-button">Import .txt<input id="import-list" type="file" accept=".txt,text/plain"></label><button id="sample" class="text-button">Try a sample list</button></div><p class="micro" id="input-message" role="status">Duplicates are removed automatically</p></section>
 <section class="panel collect-panel"><div class="panel-heading"><span class="icon-tile"><svg><use href="#search-icon"/></svg></span><h2>Search & collect</h2></div><p>Open a Reddit search and select <strong>Communities</strong></p><label class="sr-only" for="source-tab">Reddit search tab</label><select id="source-tab"><option value="">Looking for open search tabs…</option></select><button id="collect" class="button primary full"><span id="collect-label">Collect &amp; check</span><svg><use href="#arrow"/></svg></button><div class="import-row"><button id="refresh-source" class="text-button">Refresh tabs</button><a class="text-button" href="https://www.reddit.com/search/?q=social%20media&amp;type=communities" target="_blank" rel="noopener noreferrer">Open search <svg><use href="#external"/></svg></a></div><p class="micro" id="collect-message" role="status">Scrolls the results, adds communities, then starts checking</p></section>
